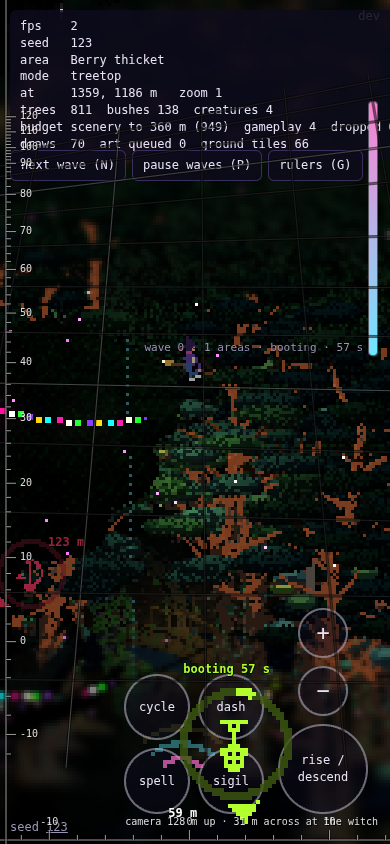
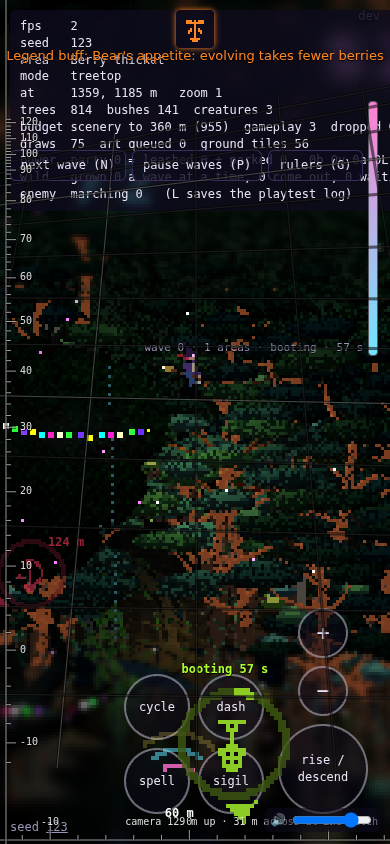
Ley lines about 30% as bright (Ed, 2026-10-05: leyLines.brightness 0.3, a share of their first look, glow included), and home's end in its own area's colour like every other: each line fades from the colour of the area it starts in to that of the area it ends in
Claude-Session: https://claude.ai/code/session_01Bjkncrw3UwUjcmr8Y3vdKy

diff --git a/src/render/leylines.ts b/src/render/leylines.ts
@@ -21,7 +21,7 @@ export interface LeyTuning {
   links: number;
   /** Each link's brightness as a share of the one before. */
   fade: number;
-  /** The first link's brightness. */
+  /** The first link's brightness: a share of the first look (Ed: 0.3 of it). */
   brightness: number;
   /** Ribbon width (m) on the ground and over the treetops. */
   width: number[];
@@ -34,6 +34,8 @@ export interface LeyTuning {
 }
 
 const STEP = 8; // metres between route points
+/** leyLines.brightness 1: the first look (v395); Ed, 2026-10-05: "about 30% as bright" (0.3). */
+const BRIGHT = 4;
 
 const VERT = /* glsl */ `
 attribute vec2 aDir;     // the route's direction on the ground here
@@ -106,7 +108,7 @@ export class LeyLines {
     this.u = {
       ...HEIGHT_UNIFORMS, uTime: LIGHT_UNIFORMS.uTime,
       uLeyWidth: { value: new THREE.Vector2(T.width[0], T.width[1]) }, uLeyHeight: { value: new THREE.Vector2(T.height[0], T.height[1]) },
-      uLift: { value: 0 }, uBright: { value: T.brightness }, uFade: { value: T.fade },
+      uLift: { value: 0 }, uBright: { value: T.brightness * BRIGHT }, uFade: { value: T.fade },
       uShift: { value: 0 }, uFlow: { value: new THREE.Vector2(T.flow[0], T.flow[1]) },
     };
     this.cur = this.makeSet(); this.old = this.makeSet();

diff --git a/src/render/view.ts b/src/render/view.ts
@@ -1193,11 +1193,11 @@ export class View {
     this.ground.setSweeps(party.sweeps);
     this.lasers.update(time, party.playing, w.x, w.z, this.speakerTops, g.map.dancefloor);
     {
-      // The ley lines: each stone in its area's sigil colour (home's a pale violet).
+      // The ley lines: fading from the colour of the area each starts in to that of the area it ends
+      // in (Ed, 2026-10-05), the colour partified areas and soundsystems use: its creature's sigil's.
       // (advance "wave": it moves on only when the next area's wave arrives, not when its quest is done)
       const P = t.leyLines.advance === "wave" ? { ...g.party, leyDone: undefined } : g.party, M = g.map, home = new THREE.Vector3(0.8, 0.7, 1);
       this.ley.update(leyKey(P), () => leyChain(P, M, t.leyLines.links + 1), s => {
-        if (s.cell[0] === M.centreCell[0] && s.cell[1] === M.centreCell[1]) return home;
         return this.markerArt.colour.get(AREA_TYPES[M.typeOf(s.cell[0], s.cell[1])].creature) ?? home;
       }, time, canopyShown(w));
     }
